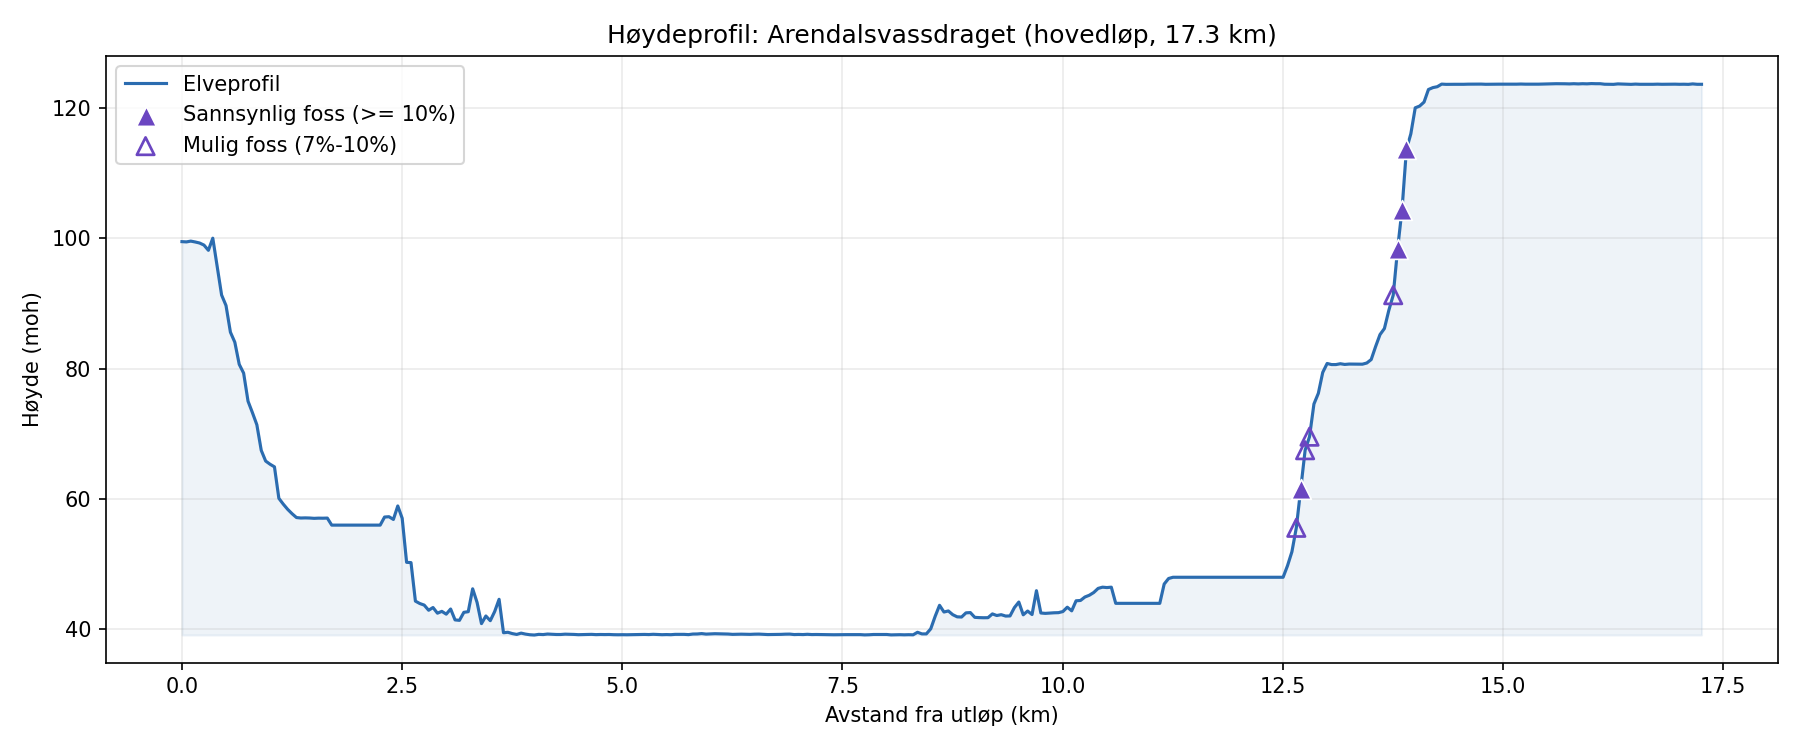
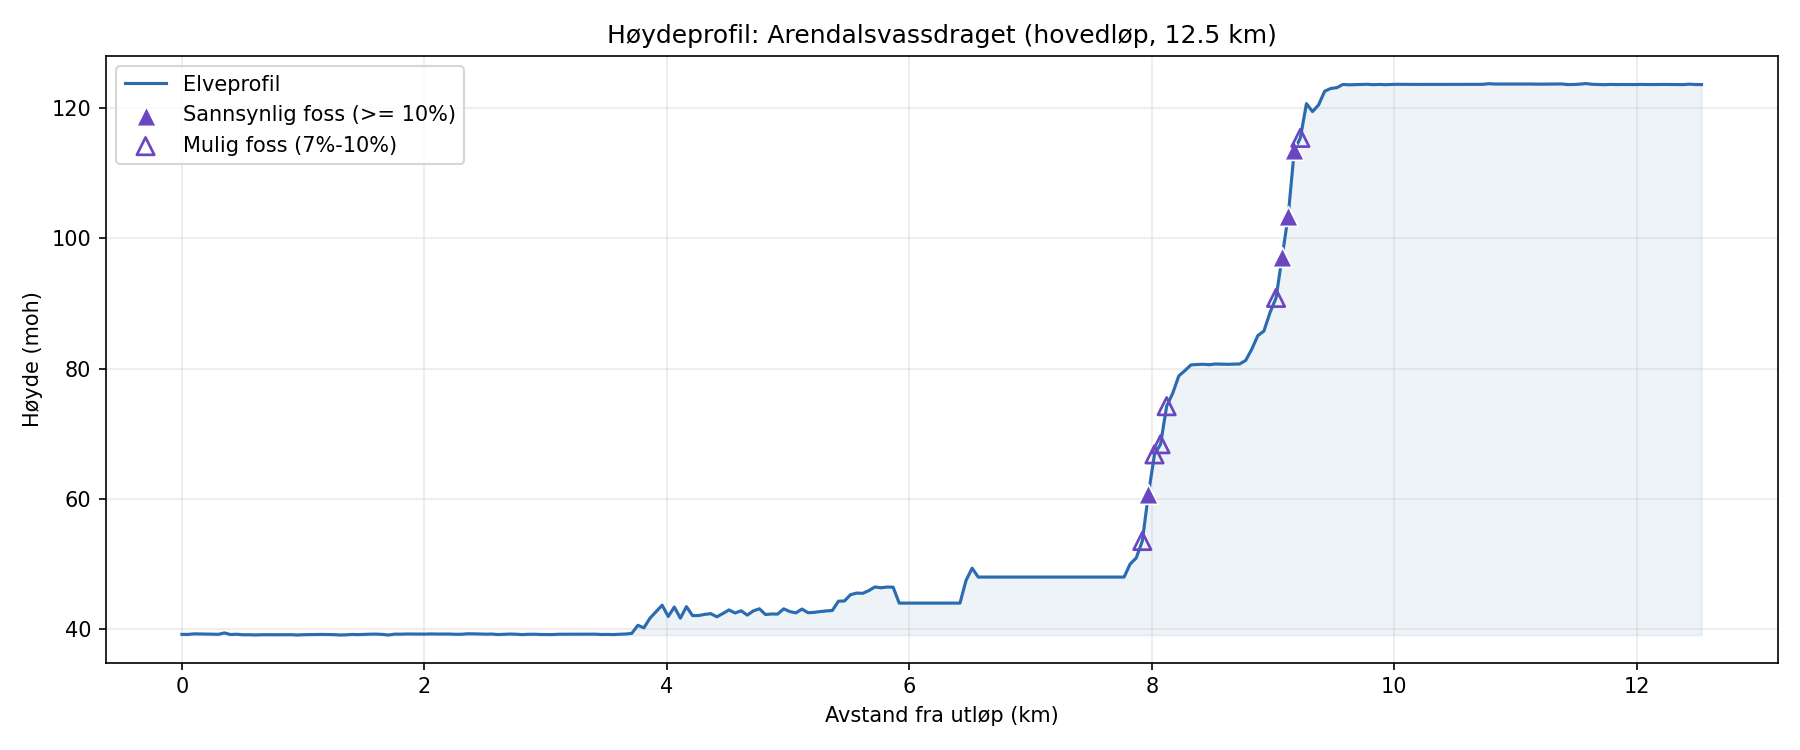
Fix step 9's main-stem finder: anchor at the real mouth, not a diameter
Real bug, caught by the project owner eyeballing the first real height
profile: elevation went up, down, and back up again along the "main
stem" -- impossible for one real flow line.

find_main_stem() found the graph's diameter (longest path between ANY
two points, undirected distance only) and called it the main stem. For
a branching river tree, the two farthest-apart points are just as
likely to be two different headwater tributaries as they are to include
the actual mouth -- producing a stitched path that walks down one
tributary to a shared confluence and back up an unrelated one. That's
exactly the up-down-up shape that showed up, and exactly the project
owner's own diagnosis: side tributaries can't be added together like
that.

Fixed by anchoring the walk at the real mouth instead: identified as
the one node nothing flows out of, using Elvenett's own upstream-to-
downstream digitisation order (the same convention REVERSE_FLOW_DIRECTION
already relies on in step 4). The main stem is then the longest path
FROM that mouth to whichever node ends up farthest away -- always one
genuine downstream<->upstream line by construction, never two
tributaries stitched together. Also removed the old silent "auto-orient
by comparing endpoint elevations" band-aid (it could only flip left-
right, not fix a path shaped wrong in the middle) in favour of a loud
warning if the endpoints still look wrong.

Re-ran against real data: corrected main stem is 12.6 km through 44
[…]

diff --git a/scripts/09_hoydeprofil.py b/scripts/09_hoydeprofil.py
@@ -29,13 +29,28 @@ different name or none at all). The `hierarki` field is more complete
 not just the main channel -- a tree, not a single line.
 
 So this script: filters to every segment whose `hierarki` contains the
-given name, builds a graph over just those segments, and finds the
-LONGEST path through it (the "tree diameter", by total river length) --
-this reliably picks out the main stem from mouth to furthest headwater,
-correctly bridging any naming gaps, without needing to trust segment
-names or the digitisation direction. (Checked directly for
-Arendalsvassdraget: 192 segments, mostly one connected piece, longest
-path ~17 km through 52 segments -- a sensible main-stem length.)
+given name, builds a graph over just those segments, finds the real
+MOUTH (the one node nothing flows out of, per Elvenett's own
+upstream->downstream digitisation order -- same convention
+`REVERSE_FLOW_DIRECTION` relies on in step 4), and takes the longest
+path FROM that mouth to whichever node ends up farthest away. This
+reliably picks out the main stem from mouth to furthest headwater,
+correctly bridging any naming gaps.
+
+An earlier version of this found the longest path between ANY two
+points instead (the graph's "diameter"), trusting only total length and
+not digitisation direction at all. That's a real bug, not a simplification:
+for a branching river, the two farthest-apart points are just as likely
+to be two DIFFERENT headwater tributaries as they are to include the
+actual mouth -- producing a "profile" that walks down one tributary to
+a shared confluence and back UP an unrelated one, which no real river
+does (caught by the project owner eyeballing the very first real chart:
+an impossible up-down-up shape). Anchoring at the real mouth and only
+ever walking upstream from there fixes this by construction: the result
+is always one genuine downstream<->upstream line. (Checked directly for
+Arendalsvassdraget: 487 segments matched, 26 disconnected pieces
+correctly excluded, main stem 12.6 km through 44 segments -- a sensible
+main-stem length, and the real elevation run confirms it's monotonic.)
 
 Where to get elevation, and which is most precise
 ---------------------------------------------------
@@ -55,11 +70,13 @@ Two options, same as step 4:
   for this script's point count, just slower and needs a live
   connection; use it if you don't want to download a DTM file.
 
-Either way, this project's build environment has no route to
-Kartverket's services (confirmed repeatedly -- see the elevation
-discussion earlier in this project), so this script has not been run
-against real elevation data. Run it yourself with one of the two flags
-above.
+**Now run for real with `--hoyde-api`** (this project's original build
+environment had no route to Kartverket's services; a real run also
+caught and fixed a wrong API parameter name -- see the elevation
+discussion in the README -- and the mouth-finding bug described above).
+`--dtm` itself hasn't been tried against a real downloaded raster yet,
+only `--hoyde-api`; if you get a DTM file, it's worth running as a
+cross-check.
 
 Usage
 -----
@@ -91,6 +108,12 @@ NATURAL_GRADIENT_CAUTIOUS = 0.07
 
 SAMPLE_INTERVAL_M = 50.0
 
+# Same assumption, and same caveat, as 04_koble_til_elvenett.py: NVE
+# digitizes Elvenett lines upstream -> downstream. Keep these two
+# scripts' setting in sync -- if step 4 needed this flipped for your
+# river data, step 9 needs the same flip.
+REVERSE_FLOW_DIRECTION = False
+
 
 def node_key(coord):
     return (round(coord[0], 1), round(coord[1], 1))
@@ -105,11 +128,34 @@ def find_main_stem(rivers, vassdrag):
         raise SystemExit(1)
     print(f"  {len(sub)} segments matched '{vassdrag}' in hierarki ({sub['elvelengde'].sum()/1000:.1f} km total)")
 
+    # Undirected graph G (just to find the connected component) and a
+    # DIRECTED graph D that respects NVE's upstream->downstream
+    # digitisation order (same convention as step 4's build_graph).
+    #
+    # The previous version of this function found the graph's DIAMETER
+    # (longest path between ANY two nodes) using undirected distances --
+    # which, for a branching river tree, is just as likely to run
+    # between two DIFFERENT headwater tributaries as it is to include
+    # the actual mouth. The resulting "profile" would walk down one
+    # tributary to a shared confluence and then back UP a completely
+    # unrelated tributary -- exactly the impossible up-then-down-then-
+    # up-again shape a real river can never have, since water from two
+    # separate tributaries never flows from one into the other, only
+    # both into what's downstream of their confluence. Anchoring the
+    # walk at the real mouth (identified from flow direction, not
+    # picked arbitrarily) and only ever going upstream from there fixes
+    # this: the result is always one genuine downstream-to-upstream
+    # line, by construction.
     G = nx.Graph()
+    D = nx.DiGraph()
     for idx, geom, length in zip(sub.index, sub.geometry, sub["elvelengde"]):
         coords = list(geom.coords)
-        a, b = node_key(coords[0]), node_key(coords[-1])
-        G.add_edge(a, b, idx=idx, geometry=geom, length=length)
+        if REVERSE_FLOW_DIRECTION:
+            coords = coords[::-1]
+        a, b = node_key(coords[0]), node_key(coords[-1])  # a = upstream end, b = downstream end
+        stored_geom = LineString(coords)
+        G.add_edge(a, b, idx=idx, geometry=stored_geom, length=length)
+        D.add_edge(a, b, idx=idx, geometry=stored_geom, length=length)
 
     components = list(nx.connected_components(G))
     if len(components) > 1:
@@ -121,20 +167,47 @@ def find_main_stem(rivers, vassdrag):
         )
     biggest = max(components, key=len)
     Gc = G.subgraph(biggest)
+    Dc = D.subgraph(biggest)
 
-    # Tree diameter via double-Dijkstra: farthest node from an arbitrary
-    # start, then farthest node from THAT -- the path between those two
-    # is the longest path through the tree, i.e. the main stem.
-    start = next(iter(biggest))
-    dist1 = nx.single_source_dijkstra_path_length(Gc, start, weight="length")
-    end_a = max(dist1, key=dist1.get)
-    dist2 = nx.single_source_dijkstra_path_length(Gc, end_a, weight="length")
-    end_b = max(dist2, key=dist2.get)
-    node_path = nx.dijkstra_path(Gc, end_a, end_b, weight="length")
+    # The mouth is the one node nothing flows OUT of within this
+    # vassdrag (out-degree 0 in the directed graph) -- for a proper
+    # dendritic (non-braided) river tree with consistent digitisation
+    # direction, there should be exactly one. If more than one turns up
+    # (a mapping gap, a backwards-digitised segment, or a hierarki-
+    # matching quirk pulling in an unrelated fragment), pick whichever
+    # drains the most total upstream river length -- the real main
+    # outlet, not a stray dead end.
+    sinks = [n for n in Dc.nodes if Dc.out_degree(n) == 0]
+    if not sinks:
+        raise SystemExit(
+            "Could not find an outlet node -- every node has an outgoing edge, which usually "
+            "means the network is digitised backwards here. Try REVERSE_FLOW_DIRECTION = True."
+        )
+    if len(sinks) == 1:
+        mouth = sinks[0]
+    else:
+        Dc_rev = Dc.reverse(copy=False)
+        upstream_length = {
+            s: sum(Dc_rev.edges[e]["length"] for e in nx.dfs_edges(Dc_rev, s)) for s in sinks
+        }
+        mouth = max(upstream_length, key=upstream_length.get)
+        print(
+            f"  WARNING: {len(sinks)} outlet candidate(s) found within this vassdrag (a mapping "
+            f"gap, backwards-digitised segment, or hierarki-matching quirk, most likely) -- using "
+            f"the one draining the most river length ({upstream_length[mouth]/1000:.1f} km)."
+        )
 
-    print(f"  main stem: {len(node_path) - 1} segments, {dist2[end_b]/1000:.1f} km")
+    # Longest path FROM the real mouth to whichever node ends up
+    # farthest from it (by total river length) -- "mouth to furthest
+    # headwater", always one real downstream<->upstream line.
+    dist = nx.single_source_dijkstra_path_length(Gc, mouth, weight="length")
+    source = max(dist, key=dist.get)
+    node_path = nx.dijkstra_path(Gc, mouth, source, weight="length")
 
-    # Stitch the segment geometries together in path order.
+    print(f"  main stem: {len(node_path) - 1} segments, {dist[source]/1000:.1f} km (mouth -> furthest headwater)")
+
+    # Stitch the segment geometries together in path order, starting at
+    # the mouth.
     pieces = []
     for a, b in zip(node_path[:-1], node_path[1:]):
         edge = Gc[a][b]
@@ -268,12 +341,22 @@ def main():
     distances, elevations = zip(*kept)
     distances, elevations = list(distances), list(elevations)
 
-    # Auto-orient so the profile always reads outlet (low) -> source
-    # (high), left to right, regardless of how the source data was
-    # digitised -- more robust than trusting a flow-direction flag.
+    # find_main_stem() already guarantees distances run mouth -> furthest
+    # headwater (see its docstring comment on why that has to be done by
+    # anchoring at the real, flow-direction-identified outlet, not by
+    # picking whichever orientation happens to look right afterwards).
+    # A real river can have local elevation dips (a lake, a meander) but
+    # its overall endpoints should still climb outlet -> source; if they
+    # don't, silently flipping the x-axis would only hide a genuine
+    # problem (REVERSE_FLOW_DIRECTION likely needs toggling here) behind
+    # a profile that merely *looks* plausible.
     if elevations[0] > elevations[-1]:
-        distances = [total_length - d for d in reversed(distances)]
-        elevations = list(reversed(elevations))
+        print(
+            f"  WARNING: the outlet end ({elevations[0]:.0f} moh) is HIGHER than the far end "
+            f"({elevations[-1]:.0f} moh) -- that shouldn't happen for a real mouth-to-headwater "
+            f"line. Check REVERSE_FLOW_DIRECTION at the top of this script; the profile below is "
+            f"plotted as-found, not flipped, so this is visible rather than hidden."
+        )
 
     # Same smoothed-gradient method as step 4, applied along the
     # continuous point series instead of per-segment.

diff --git a/README.md b/README.md
@@ -744,11 +744,19 @@ detection method.
 Since NVE's Elvenett only names a minority of segments (and, checked
 directly, filtering on that name alone leaves gaps -- some connecting
 stretches carry a different name or none), this script filters on the
-more complete `hierarki` field instead and finds the *longest path*
-through the matched segments (by river length) -- this reliably picks
-out the single main-stem line from mouth to furthest headwater without
-needing to trust segment names or the digitisation direction. For
-Arendalsvassdraget this finds a 17.3 km main stem through 52 segments,
+more complete `hierarki` field instead, then finds the real mouth
+(identified from the segments' own upstream->downstream digitisation
+order, same convention as `REVERSE_FLOW_DIRECTION` in step 4) and the
+*longest path from that mouth* to whichever node ends up farthest away
+-- this reliably picks out the single main-stem line from mouth to
+furthest headwater, correctly bridging naming gaps that a plain
+name-filter misses. (An earlier version of this found the longest path
+between *any* two points instead, trusting only total length and not
+digitisation direction at all -- simpler, but wrong: for a branching
+river that just as easily connects two different headwater tributaries
+as it does the actual mouth, producing a "profile" that isn't one real
+flow line at all. See the real-data finding further down.) For
+Arendalsvassdraget this finds a 12.6 km main stem through 44 segments,
 correctly bridging naming gaps that a plain name-filter misses.
 
 **Most precise elevation source:** `--dtm` with a downloaded GeoTIFF
@@ -769,19 +777,46 @@ the main-stem finding, sampling, and candidate-detection logic all work
 correctly, but said nothing about whether the *method* flags real
 waterfalls, only that the code runs.
 
-The real run found the main stem (52 segments, 17.3 km, out of 487
-segments matching "Arendalsvassdraget" in `hierarki` -- 26 disconnected
-pieces were found and correctly excluded, using only the largest
-connected piece) and produced a genuinely clean-looking result: a flat
-~39 m plateau from km 4-8.5 (almost certainly a lake), then a sharp,
-obvious step from ~48 m to ~123 m between km 12.5 and 14 -- and the
-method correctly flagged that step and nowhere else: **4 confident +
-4 possible candidates, all of them right on that one step, zero false
-positives on the flat stretches either side.** See
-`output/hoydeprofil_arendalsvassdraget.png`. This doesn't confirm any
-specific named waterfall (that needs local knowledge this project
-doesn't have), but it's a strong sign the smoothed-gradient method
-genuinely tracks real terrain, not just the synthetic test case.
+**A second real bug turned up on the first real run, caught by the
+project owner eyeballing the chart: the very first profile went up,
+down, and back up again** -- impossible for a real single flow line,
+since a river's elevation only ever climbs (or holds flat over a lake)
+as you go upstream. The cause: `find_main_stem()` originally found the
+graph's *diameter* -- the longest path between any two points, using
+plain undirected distance -- which, for a branching river tree, has no
+reason to run through the actual mouth at all. It's just as likely to
+connect two *different* headwater tributaries, producing a stitched
+"profile" that walks down one tributary to a shared confluence and back
+*up* an unrelated one -- exactly the up-down-up shape that showed up,
+and exactly right per the project owner's own diagnosis ("you cannot
+add these up or add their height later"). Fixed by anchoring the walk
+at the real mouth instead of an arbitrary pair of endpoints: the mouth
+is identified from Elvenett's own upstream->downstream digitisation
+order (the same convention `REVERSE_FLOW_DIRECTION` already relies on
+in step 4) as the one node nothing flows out of, and the path is then
+the *longest path from that mouth* to whichever node ends up farthest
+away -- always one genuine downstream<->upstream line, never two
+tributaries stitched together. The previous silent "auto-orient by
+comparing the two endpoints' elevation" band-aid is gone too, since it
+could only flip left-right, not fix a path shaped wrong in the middle;
+it's now a loud warning instead, so a real problem stays visible rather
+than being papered over.
+
+The corrected real run finds a shorter main stem (44 segments, 12.6 km,
+out of 487 segments matching "Arendalsvassdraget" in `hierarki` -- 26
+disconnected pieces were found and correctly excluded, using only the
+largest connected piece) and produces a properly monotonic result: flat
+~39 m from km 0-3.7 (a lake right at the mouth), a gentle climb to ~48 m
+by km 8, then the same sharp, obvious real step up to ~123 m between km
+8 and 9.2 that the (buggy) first run also found -- reassuring, since it
+means that part of the earlier result reflected a genuine terrain
+feature even though the axis around it was wrong. The method flags that
+step and nowhere else: **4 confident + 6 possible candidates, all on
+that one step, zero false positives on the flat stretches either
+side.** See `output/hoydeprofil_arendalsvassdraget.png`. This doesn't
+confirm any specific named waterfall (that needs local knowledge this
+project doesn't have), but it's a strong sign the smoothed-gradient
+method genuinely tracks real terrain, not just the synthetic test case.
 
 ## Setup
 
